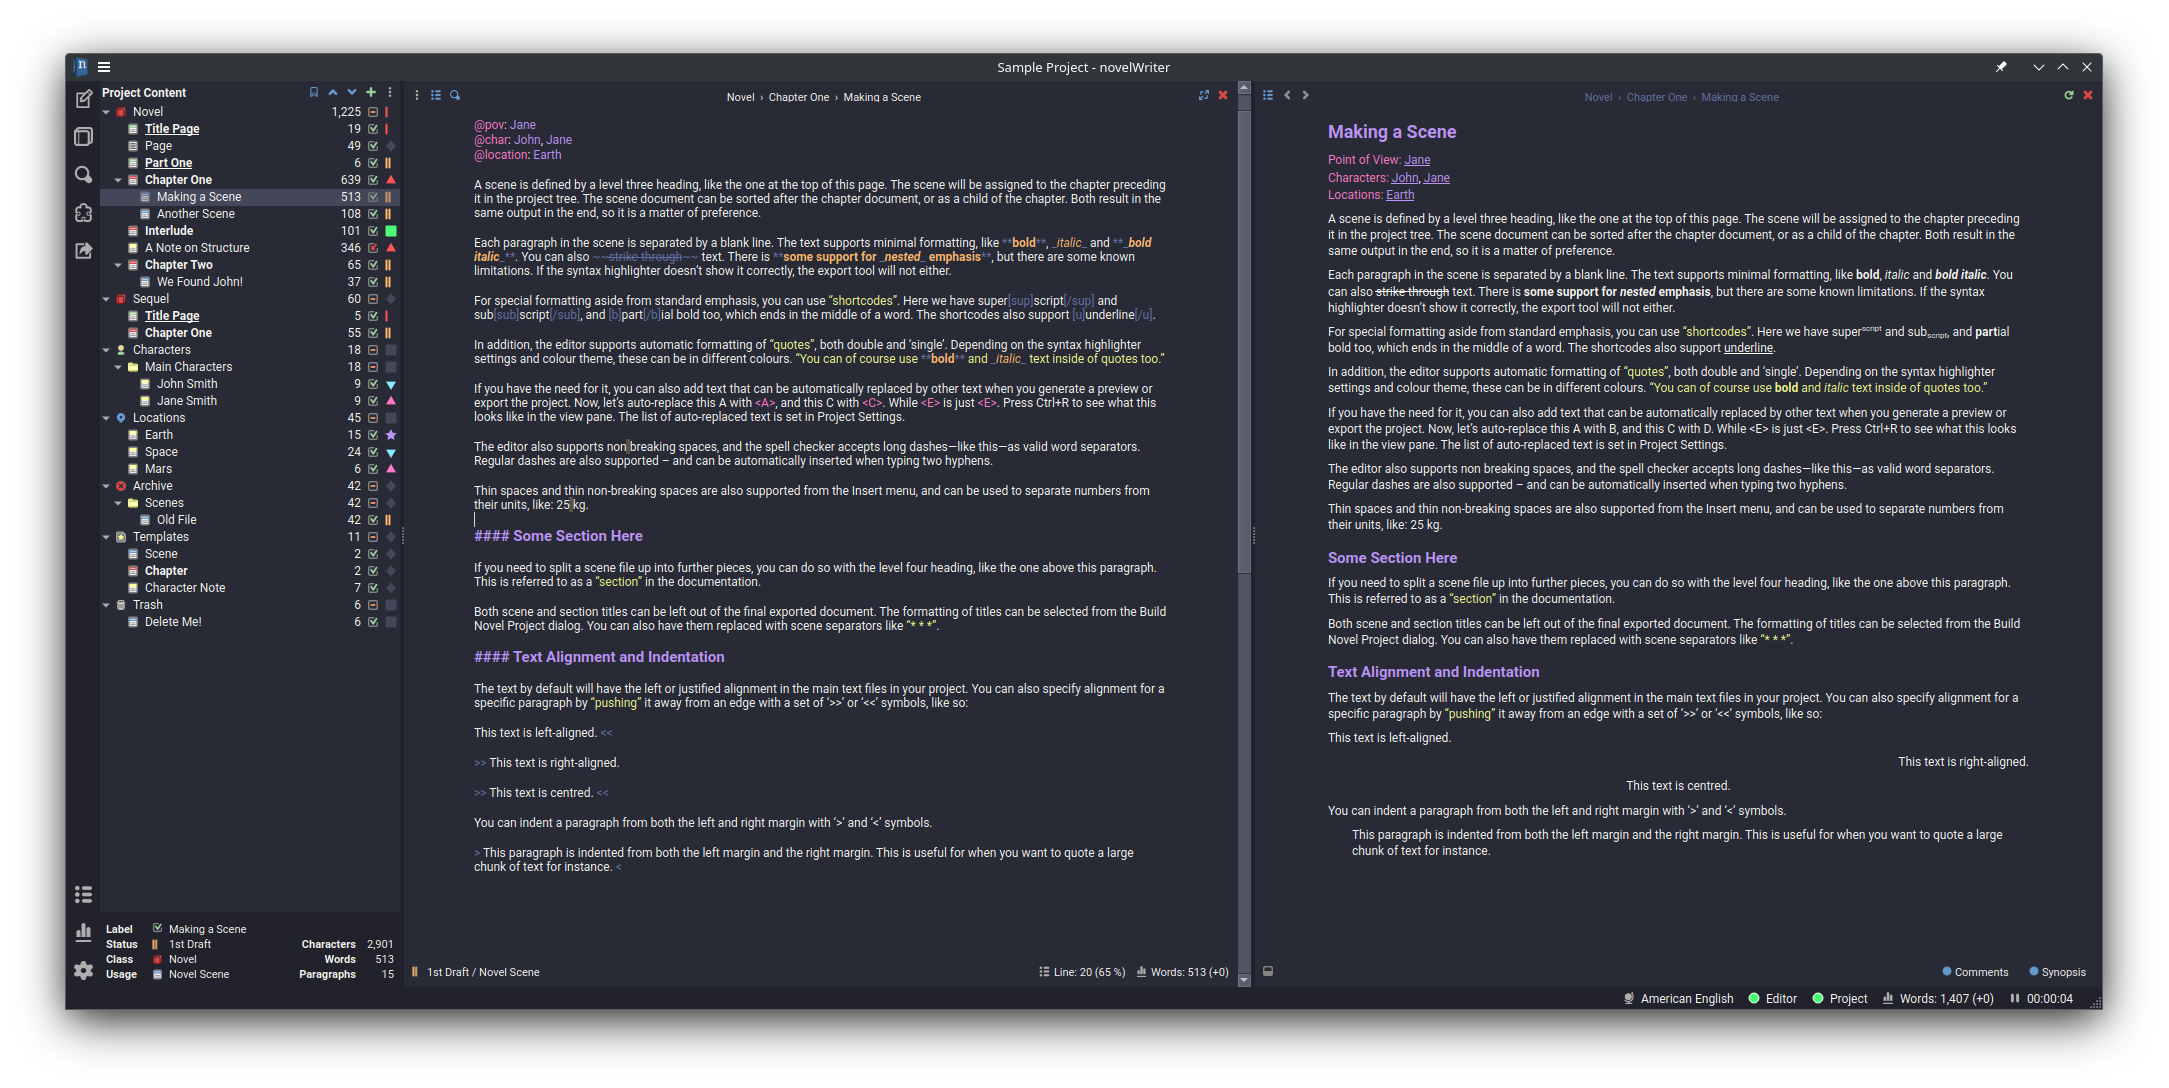
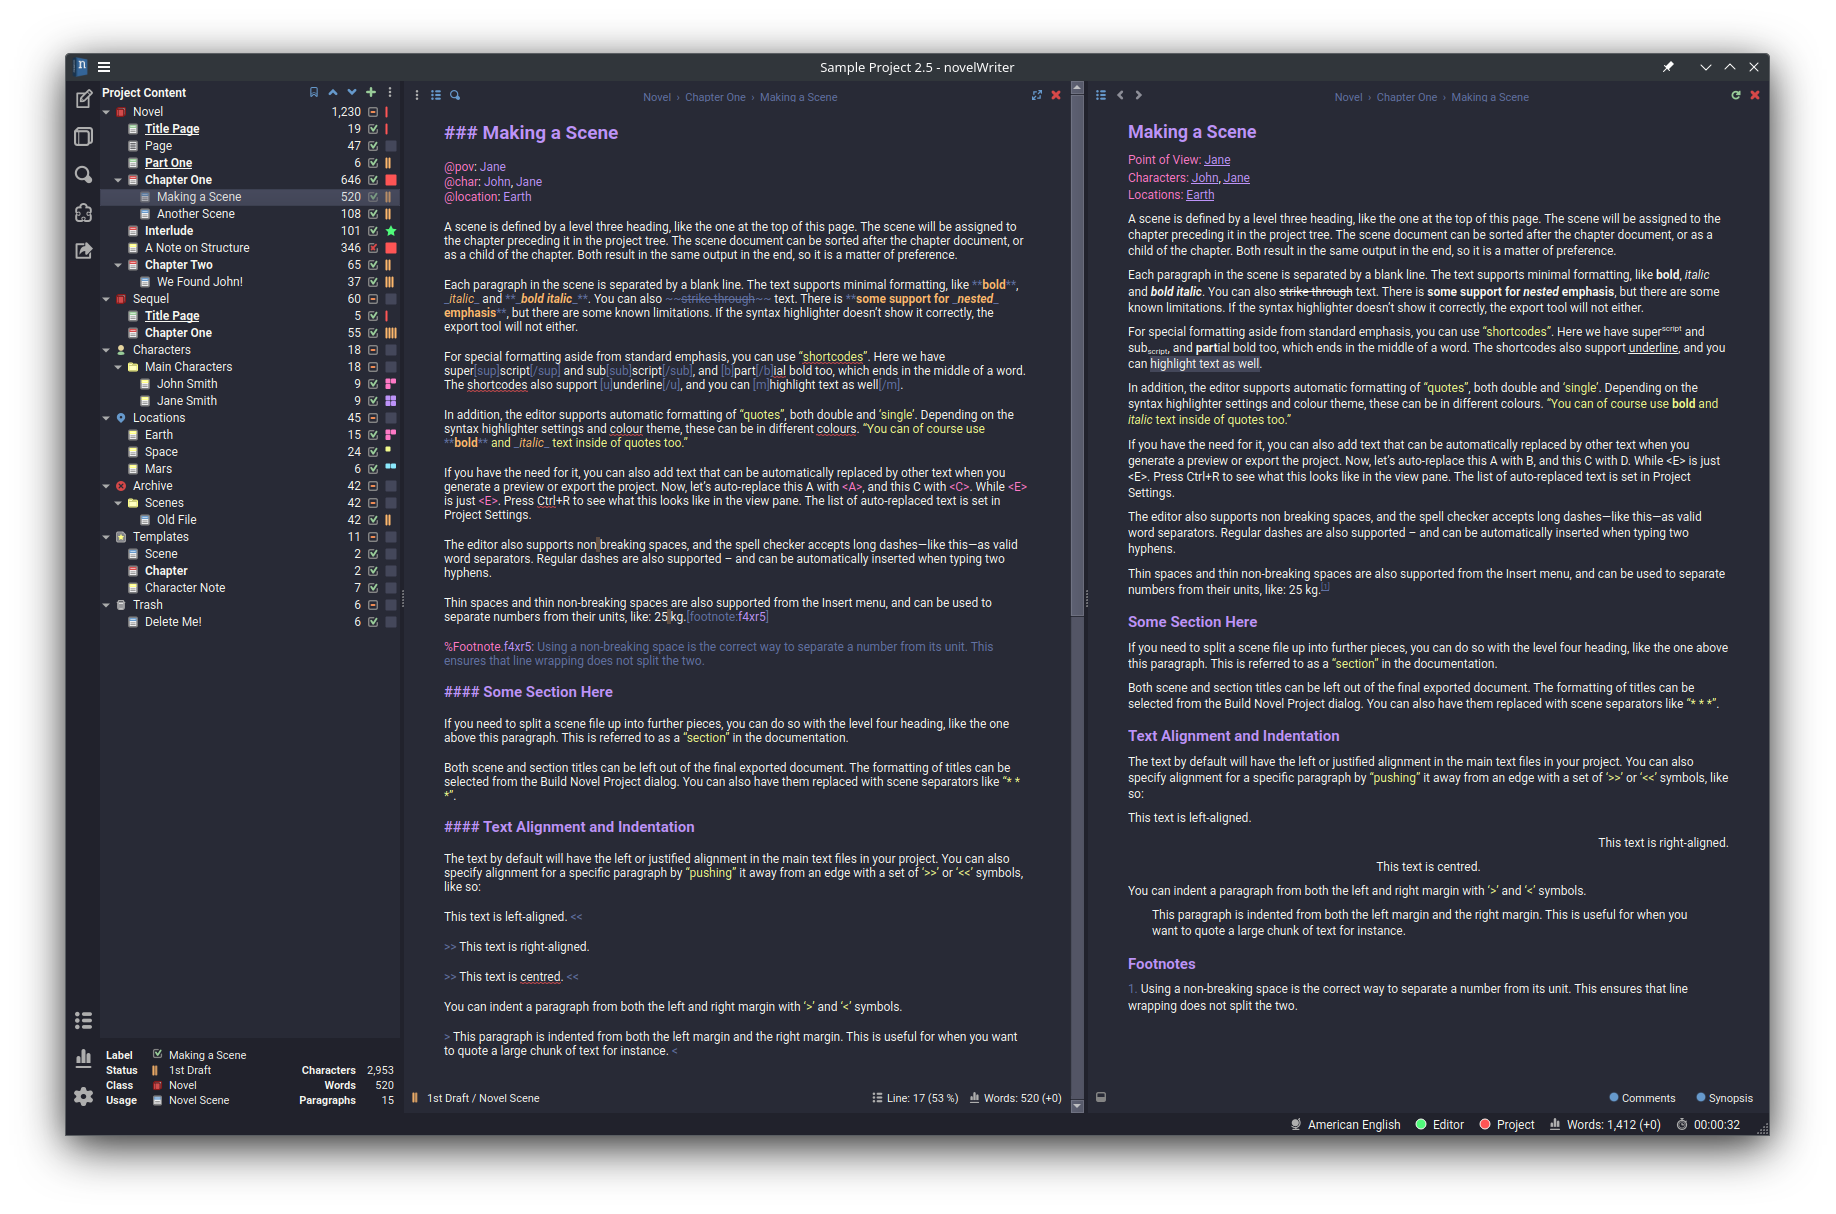
updated theme and made screenshots using the novelWriter 2.5 sample project

Changed region(s): [[0.0, 0.0312, 0.9935, 0.9688], [0.6209, 0.6875, 0.9314, 0.8438], [0.8693, 0.6875, 0.9314, 0.7188]]

diff --git a/INSTALL.md b/INSTALL.md
@@ -57,6 +57,7 @@ There is no separate config file to copy and paste into a folder. One either nee
         - Finished: `#50fa7b`
 3. In the _Importance_ Tab, same as in step 2
     - None: `#44475a`
+    - Background: `#F1FA8C`
     - Minor: `#8be9fd`
     - Major: `#ff79c6`
     - Main: `#bd93f9`
